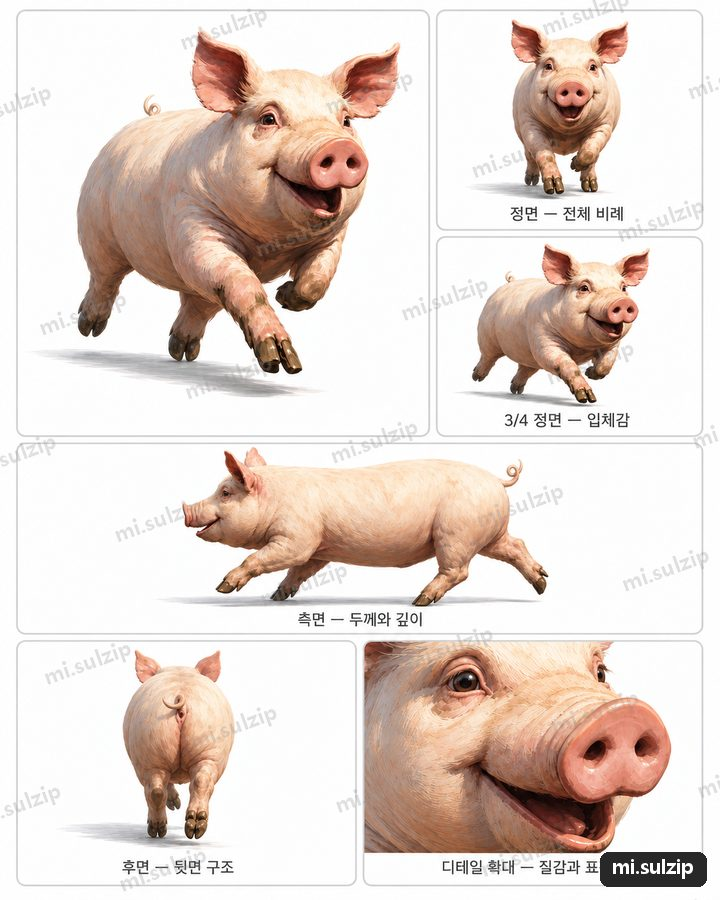
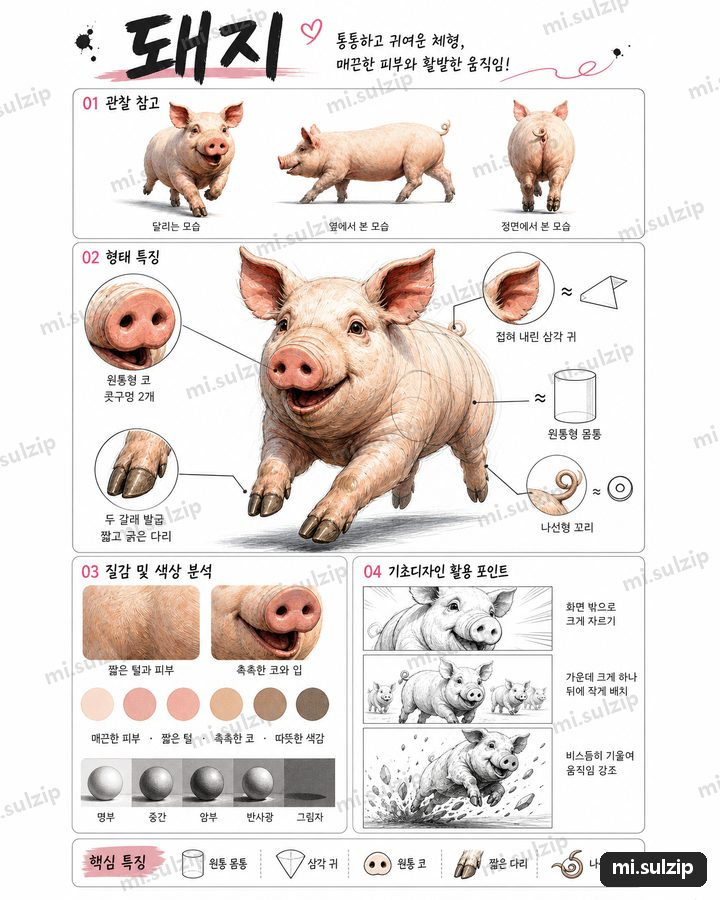
산양·독수리·돼지 분석보드 추가 (새 형식)

diff --git a/index.html b/index.html
@@ -360,9 +360,9 @@ const ITEMS=[
  {"id": "mistsprayer", "title": "미스트 분무기 레퍼런스", "cat": "생활용품", "tier": "MINI", "price": 4900, "badge": "new", "order": 145, "pop": 145, "img": "img/mistsprayer/board.jpg", "thumb": "img/mistsprayer/thumb.jpg", "cuts": 6, "pv": ["img/mistsprayer/cut01.jpg", "img/mistsprayer/cut02.jpg", "img/mistsprayer/cut03.jpg", "img/mistsprayer/cut04.jpg", "img/mistsprayer/cut05.jpg", "img/mistsprayer/cut06.jpg", "img/mistsprayer/set1.jpg"], "desc": "투명한 유리와 금속의 대비", "contents": ["분석보드: 관찰 참고 · 형태 분석과 구성 · 질감과 색상 · 기초디자인 활용 포인트", "각도별 단독컷 6장 + 모음컷: 정면 · 측면 · 후면 · 상단 · 디테일", "핵심 키워드: 주제부 · 확대 · 절단 · 반복 · 리듬 · 대비 · 흐름"], "who": ["사물의 구조와 질감을 각도별로 익히고 싶은 입시생", "기초디자인 주제부 소재를 찾는 분"], "tags": ["생활용품", "분무기", "유리", "금속", "청록", "곡선"]},
  {"id": "octopus", "title": "문어 레퍼런스", "cat": "동물", "tier": "MINI", "price": 4900, "badge": "new", "order": 146, "pop": 146, "img": "img/octopus/board.jpg", "thumb": "img/octopus/thumb.jpg", "cuts": 5, "pv": ["img/octopus/cut01.jpg", "img/octopus/cut02.jpg", "img/octopus/cut03.jpg", "img/octopus/cut04.jpg", "img/octopus/cut05.jpg", "img/octopus/set1.jpg"], "desc": "유연한 움직임, 감각과 촉감의 조화", "contents": ["분석보드: 관찰 참고 · 형태 분석과 구성 · 질감과 색상 · 기초디자인 활용 포인트", "각도별 단독컷 5장 + 모음컷: 정면 · 측면 · 후면 · 상단 · 디테일", "핵심 키워드: 주제부 · 확대 · 절단 · 반복 · 리듬 · 대비 · 흐름"], "who": ["동물 형태와 동세를 각도별로 보고 싶은 분", "질감 표현 연습이 필요한 입시생"], "tags": ["동물", "문어", "빨판", "다리", "곡선", "빨강"]},
  {"id": "candleholder", "title": "흐름 캔들홀더 레퍼런스", "cat": "재질·표현", "tier": "MINI", "price": 4900, "badge": "new", "order": 147, "pop": 147, "img": "img/candleholder/board.jpg", "thumb": "img/candleholder/thumb.jpg", "cuts": 6, "pv": ["img/candleholder/cut01.jpg", "img/candleholder/cut02.jpg", "img/candleholder/cut03.jpg", "img/candleholder/cut04.jpg", "img/candleholder/cut05.jpg", "img/candleholder/cut06.jpg", "img/candleholder/set1.jpg"], "desc": "흘러내리는 금속의 흐름과 반사", "contents": ["분석보드: 관찰 참고 · 형태 분석과 구성 · 질감과 색상 · 기초디자인 활용 포인트", "각도별 단독컷 6장 + 모음컷: 정면 · 측면 · 후면 · 상단 · 디테일", "핵심 키워드: 주제부 · 확대 · 절단 · 반복 · 리듬 · 대비 · 흐름"], "who": ["금속·유리·투명 같은 재질 표현을 연습하고 싶은 입시생", "반사와 하이라이트 위치를 익히고 싶은 분"], "tags": ["재질·표현", "캔들", "크롬", "금속", "흐름", "녹아내림"]},
- {"id": "ram", "title": "산양 레퍼런스", "cat": "동물", "tier": "MINI", "price": 4900, "badge": "new", "order": 149, "pop": 149, "img": "img/ram/board.jpg", "thumb": "img/ram/thumb.jpg", "cuts": 6, "pv": ["img/ram/cut01.jpg", "img/ram/cut02.jpg", "img/ram/cut03.jpg", "img/ram/cut04.jpg", "img/ram/cut05.jpg", "img/ram/cut06.jpg", "img/ram/set1.jpg"], "desc": "말린 뿔의 나선, 털의 무게감", "contents": ["분석보드 준비 중 (모음컷 대표 이미지)", "각도별 단독컷 6장 + 모음컷: 메인 · 정면 · 측면 · 후면 · 상단 · 디테일", "핵심 키워드: 주제부 · 확대 · 절단 · 반복 · 리듬 · 대비 · 흐름"], "who": ["동물 형태와 동세를 각도별로 보고 싶은 분", "털·뿔 질감 표현을 연습하고 싶은 입시생"], "tags": ["동물", "산양", "뿔", "나선", "털", "질감"]},
- {"id": "eagle", "title": "독수리 레퍼런스", "cat": "동물", "tier": "MINI", "price": 4900, "badge": "new", "order": 150, "pop": 150, "img": "img/eagle/board.jpg", "thumb": "img/eagle/thumb.jpg", "cuts": 6, "pv": ["img/eagle/cut01.jpg", "img/eagle/cut02.jpg", "img/eagle/cut03.jpg", "img/eagle/cut04.jpg", "img/eagle/cut05.jpg", "img/eagle/cut06.jpg", "img/eagle/set1.jpg"], "desc": "펼친 날개의 리듬, 깃털과 발톱의 긴장감", "contents": ["분석보드 준비 중 (모음컷 대표 이미지)", "각도별 단독컷 6장 + 모음컷: 메인 · 정면 · 측면 · 후면 · 상단 · 디테일", "핵심 키워드: 주제부 · 확대 · 절단 · 반복 · 리듬 · 대비 · 흐름"], "who": ["동물 형태와 동세를 각도별로 보고 싶은 분", "날개·깃털의 반복 리듬을 연습하고 싶은 분"], "tags": ["동물", "독수리", "새", "날개", "깃털", "동세"]},
- {"id": "pig", "title": "돼지 레퍼런스", "cat": "동물", "tier": "MINI", "price": 4900, "badge": "new", "order": 151, "pop": 151, "img": "img/pig/board.jpg", "thumb": "img/pig/thumb.jpg", "cuts": 6, "pv": ["img/pig/cut01.jpg", "img/pig/cut02.jpg", "img/pig/cut03.jpg", "img/pig/cut04.jpg", "img/pig/cut05.jpg", "img/pig/cut06.jpg", "img/pig/set1.jpg"], "desc": "통통한 볼륨감, 살아 있는 동세", "contents": ["분석보드 준비 중 (모음컷 대표 이미지)", "각도별 단독컷 6장 + 모음컷: 메인 · 정면 · 측면 · 후면 · 상단 · 디테일", "핵심 키워드: 주제부 · 확대 · 절단 · 반복 · 리듬 · 대비 · 흐름"], "who": ["동물 형태와 동세를 각도별로 보고 싶은 분", "둥근 볼륨과 명암 연습이 필요한 입시생"], "tags": ["동물", "돼지", "볼륨", "분홍", "동세", "캐릭터"]},
+ {"id": "ram", "title": "산양 레퍼런스", "cat": "동물", "tier": "MINI", "price": 4900, "badge": "new", "order": 149, "pop": 149, "img": "img/ram/board.jpg", "thumb": "img/ram/thumb.jpg", "cuts": 6, "pv": ["img/ram/cut01.jpg", "img/ram/cut02.jpg", "img/ram/cut03.jpg", "img/ram/cut04.jpg", "img/ram/cut05.jpg", "img/ram/cut06.jpg", "img/ram/set1.jpg"], "desc": "말린 뿔의 나선, 털의 무게감", "contents": ["분석보드: 관찰 참고 · 형태 특징(확대샷·도형 비유) · 질감과 색상 · 기초디자인 활용 포인트", "각도별 단독컷 6장 + 모음컷: 메인 · 정면 · 측면 · 후면 · 상단 · 디테일", "핵심 키워드: 주제부 · 확대 · 절단 · 반복 · 리듬 · 대비 · 흐름"], "who": ["동물 형태와 동세를 각도별로 보고 싶은 분", "털·뿔 질감 표현을 연습하고 싶은 입시생"], "tags": ["동물", "산양", "뿔", "나선", "털", "질감"]},
+ {"id": "eagle", "title": "독수리 레퍼런스", "cat": "동물", "tier": "MINI", "price": 4900, "badge": "new", "order": 150, "pop": 150, "img": "img/eagle/board.jpg", "thumb": "img/eagle/thumb.jpg", "cuts": 6, "pv": ["img/eagle/cut01.jpg", "img/eagle/cut02.jpg", "img/eagle/cut03.jpg", "img/eagle/cut04.jpg", "img/eagle/cut05.jpg", "img/eagle/cut06.jpg", "img/eagle/set1.jpg"], "desc": "펼친 날개의 리듬, 깃털과 발톱의 긴장감", "contents": ["분석보드: 관찰 참고 · 형태 특징(확대샷·도형 비유) · 질감과 색상 · 기초디자인 활용 포인트", "각도별 단독컷 6장 + 모음컷: 메인 · 정면 · 측면 · 후면 · 상단 · 디테일", "핵심 키워드: 주제부 · 확대 · 절단 · 반복 · 리듬 · 대비 · 흐름"], "who": ["동물 형태와 동세를 각도별로 보고 싶은 분", "날개·깃털의 반복 리듬을 연습하고 싶은 분"], "tags": ["동물", "독수리", "새", "날개", "깃털", "동세"]},
+ {"id": "pig", "title": "돼지 레퍼런스", "cat": "동물", "tier": "MINI", "price": 4900, "badge": "new", "order": 151, "pop": 151, "img": "img/pig/board.jpg", "thumb": "img/pig/thumb.jpg", "cuts": 6, "pv": ["img/pig/cut01.jpg", "img/pig/cut02.jpg", "img/pig/cut03.jpg", "img/pig/cut04.jpg", "img/pig/cut05.jpg", "img/pig/cut06.jpg", "img/pig/set1.jpg"], "desc": "통통한 볼륨감, 살아 있는 동세", "contents": ["분석보드: 관찰 참고 · 형태 특징(확대샷·도형 비유) · 질감과 색상 · 기초디자인 활용 포인트", "각도별 단독컷 6장 + 모음컷: 메인 · 정면 · 측면 · 후면 · 상단 · 디테일", "핵심 키워드: 주제부 · 확대 · 절단 · 반복 · 리듬 · 대비 · 흐름"], "who": ["동물 형태와 동세를 각도별로 보고 싶은 분", "둥근 볼륨과 명암 연습이 필요한 입시생"], "tags": ["동물", "돼지", "볼륨", "분홍", "동세", "캐릭터"]},
  {"id": "faucet", "title": "수도꼭지 × 빨간 구슬 레퍼런스", "cat": "생활용품", "tier": "MINI", "price": 4900, "badge": "new", "order": 152, "pop": 152, "img": "img/faucet/board.jpg", "thumb": "img/faucet/thumb.jpg", "cuts": 6, "pv": ["img/faucet/cut01.jpg", "img/faucet/cut02.jpg", "img/faucet/cut03.jpg", "img/faucet/cut04.jpg", "img/faucet/cut05.jpg", "img/faucet/cut06.jpg", "img/faucet/set1.jpg"], "desc": "반짝이는 크롬과 빨간 구슬의 대비", "contents": ["분석보드: 관찰 참고 · 형태 분석과 구성 · 질감과 색상 · 기초디자인 활용 포인트", "각도별 단독컷 6장 + 모음컷: 메인 · 정면 · 측면 · 후면 · 상단 · 디테일", "핵심 키워드: 주제부 · 확대 · 절단 · 반복 · 리듬 · 대비 · 흐름"], "who": ["금속·크롬 반사 표현을 연습하고 싶은 분", "두 재질의 대비 구성이 필요한 입시생"], "tags": ["생활용품", "수도꼭지", "크롬", "금속", "반사", "구슬"]},
  {"id": "chromehand", "title": "크롬 손모형 레퍼런스", "cat": "인체", "tier": "MINI", "price": 4900, "badge": "new", "order": 148, "pop": 148, "img": "img/chromehand/board.jpg", "thumb": "img/chromehand/thumb.jpg", "cuts": 8, "pv": ["img/chromehand/cut01.jpg", "img/chromehand/cut02.jpg", "img/chromehand/cut03.jpg", "img/chromehand/cut04.jpg", "img/chromehand/cut05.jpg", "img/chromehand/cut06.jpg", "img/chromehand/cut07.jpg", "img/chromehand/cut08.jpg", "img/chromehand/set1.jpg"], "desc": "금속의 냉정한 광택, 이질적 감각의 구조", "contents": ["분석보드: 관찰 참고 · 형태 분석과 구성 · 질감과 색상 · 기초디자인 활용 포인트", "각도별 단독컷 8장 + 모음컷: 정면 · 측면 · 손바닥 · 받침 · 디테일", "핵심 키워드: 주제부 · 확대 · 절단 · 반복 · 리듬 · 대비 · 흐름"], "who": ["두상·손 같은 인체 형태를 각도별로 익히고 싶은 분"], "tags": ["인체", "손", "크롬", "금속", "반사", "손가락"]}
 ];
